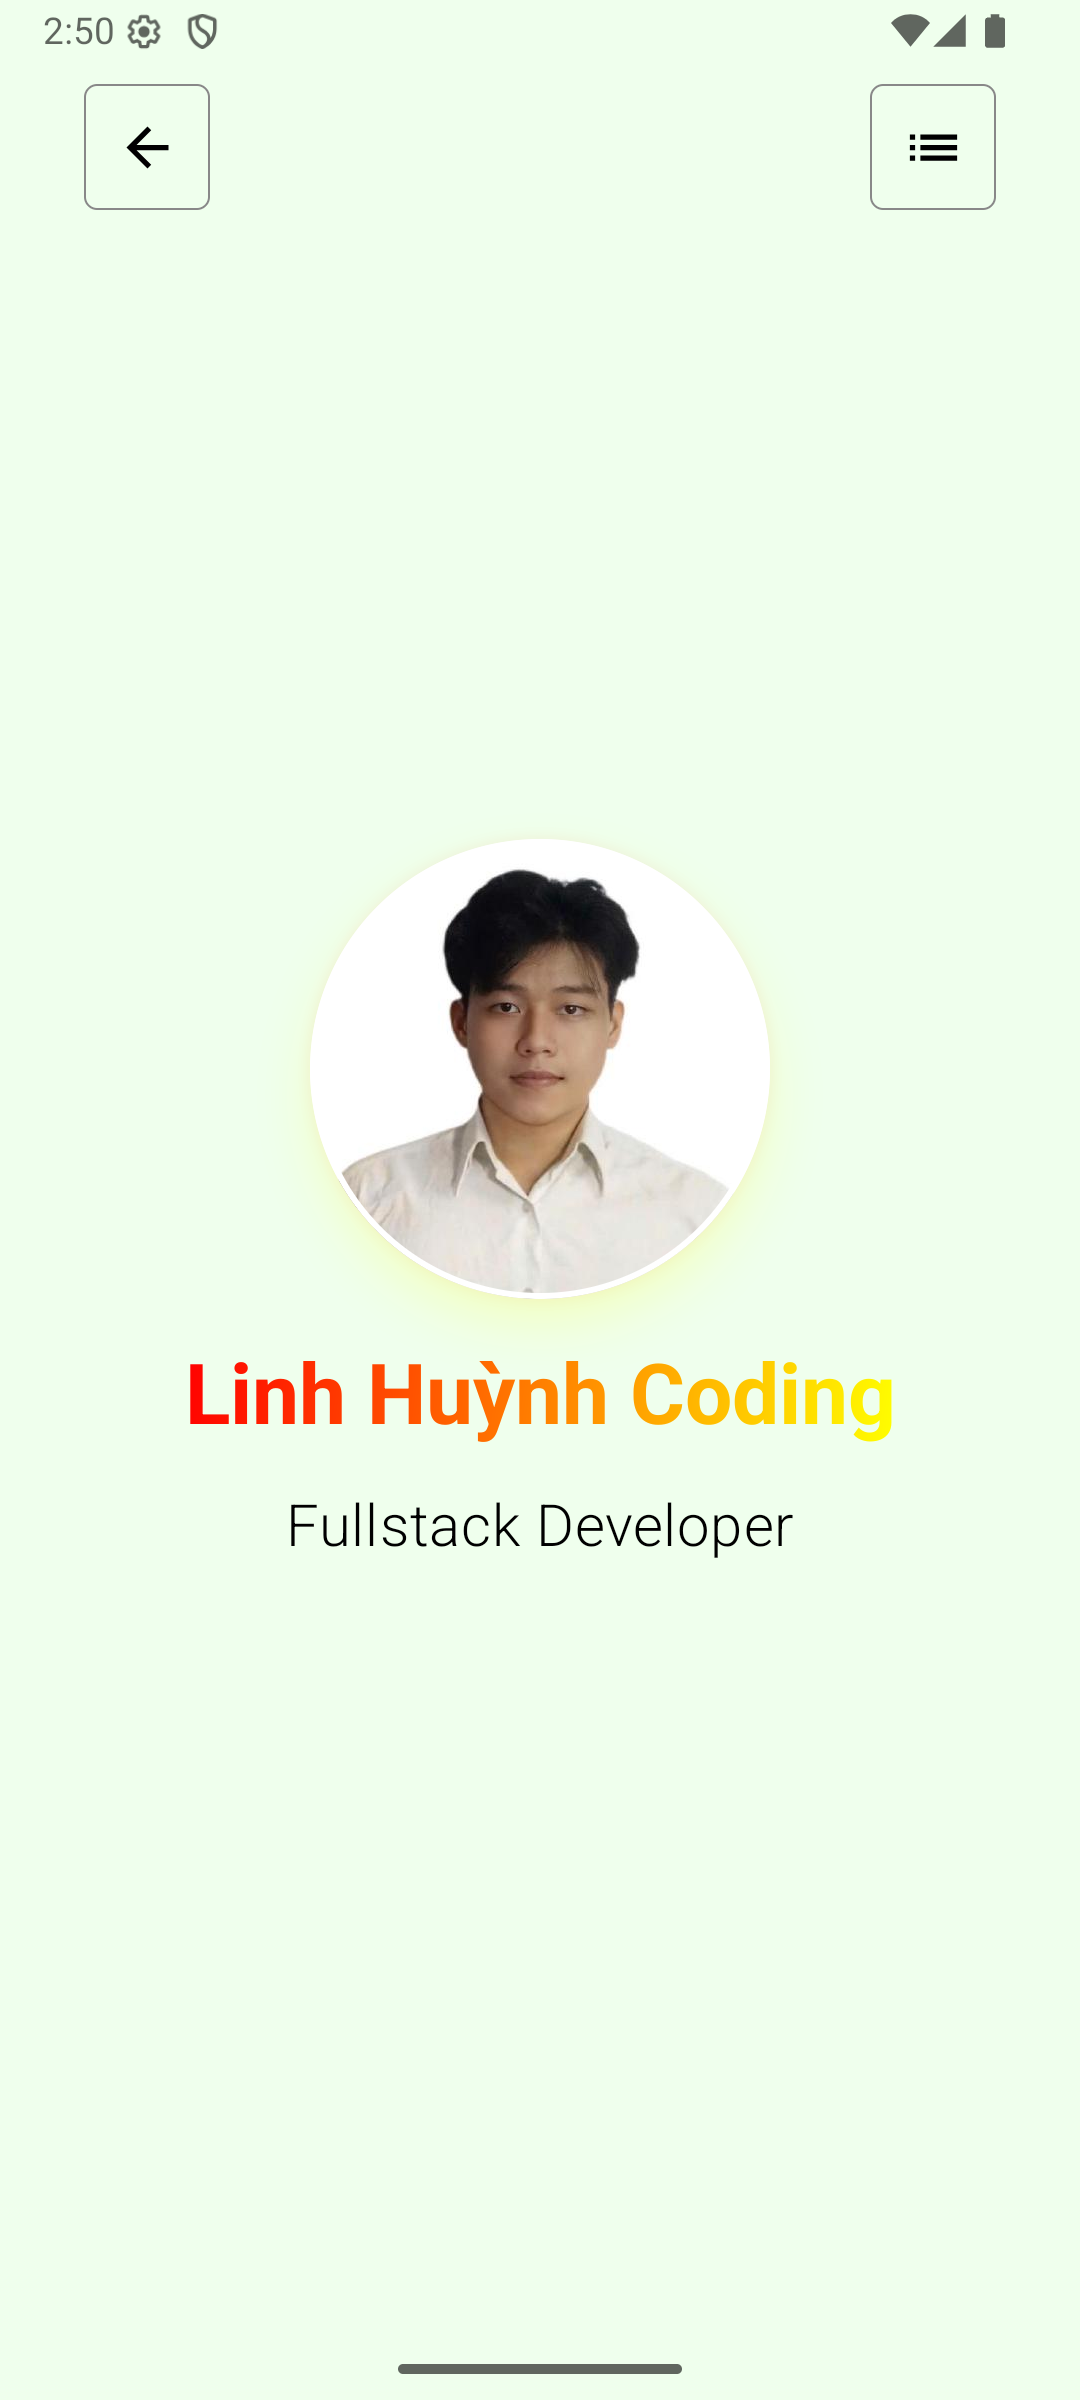
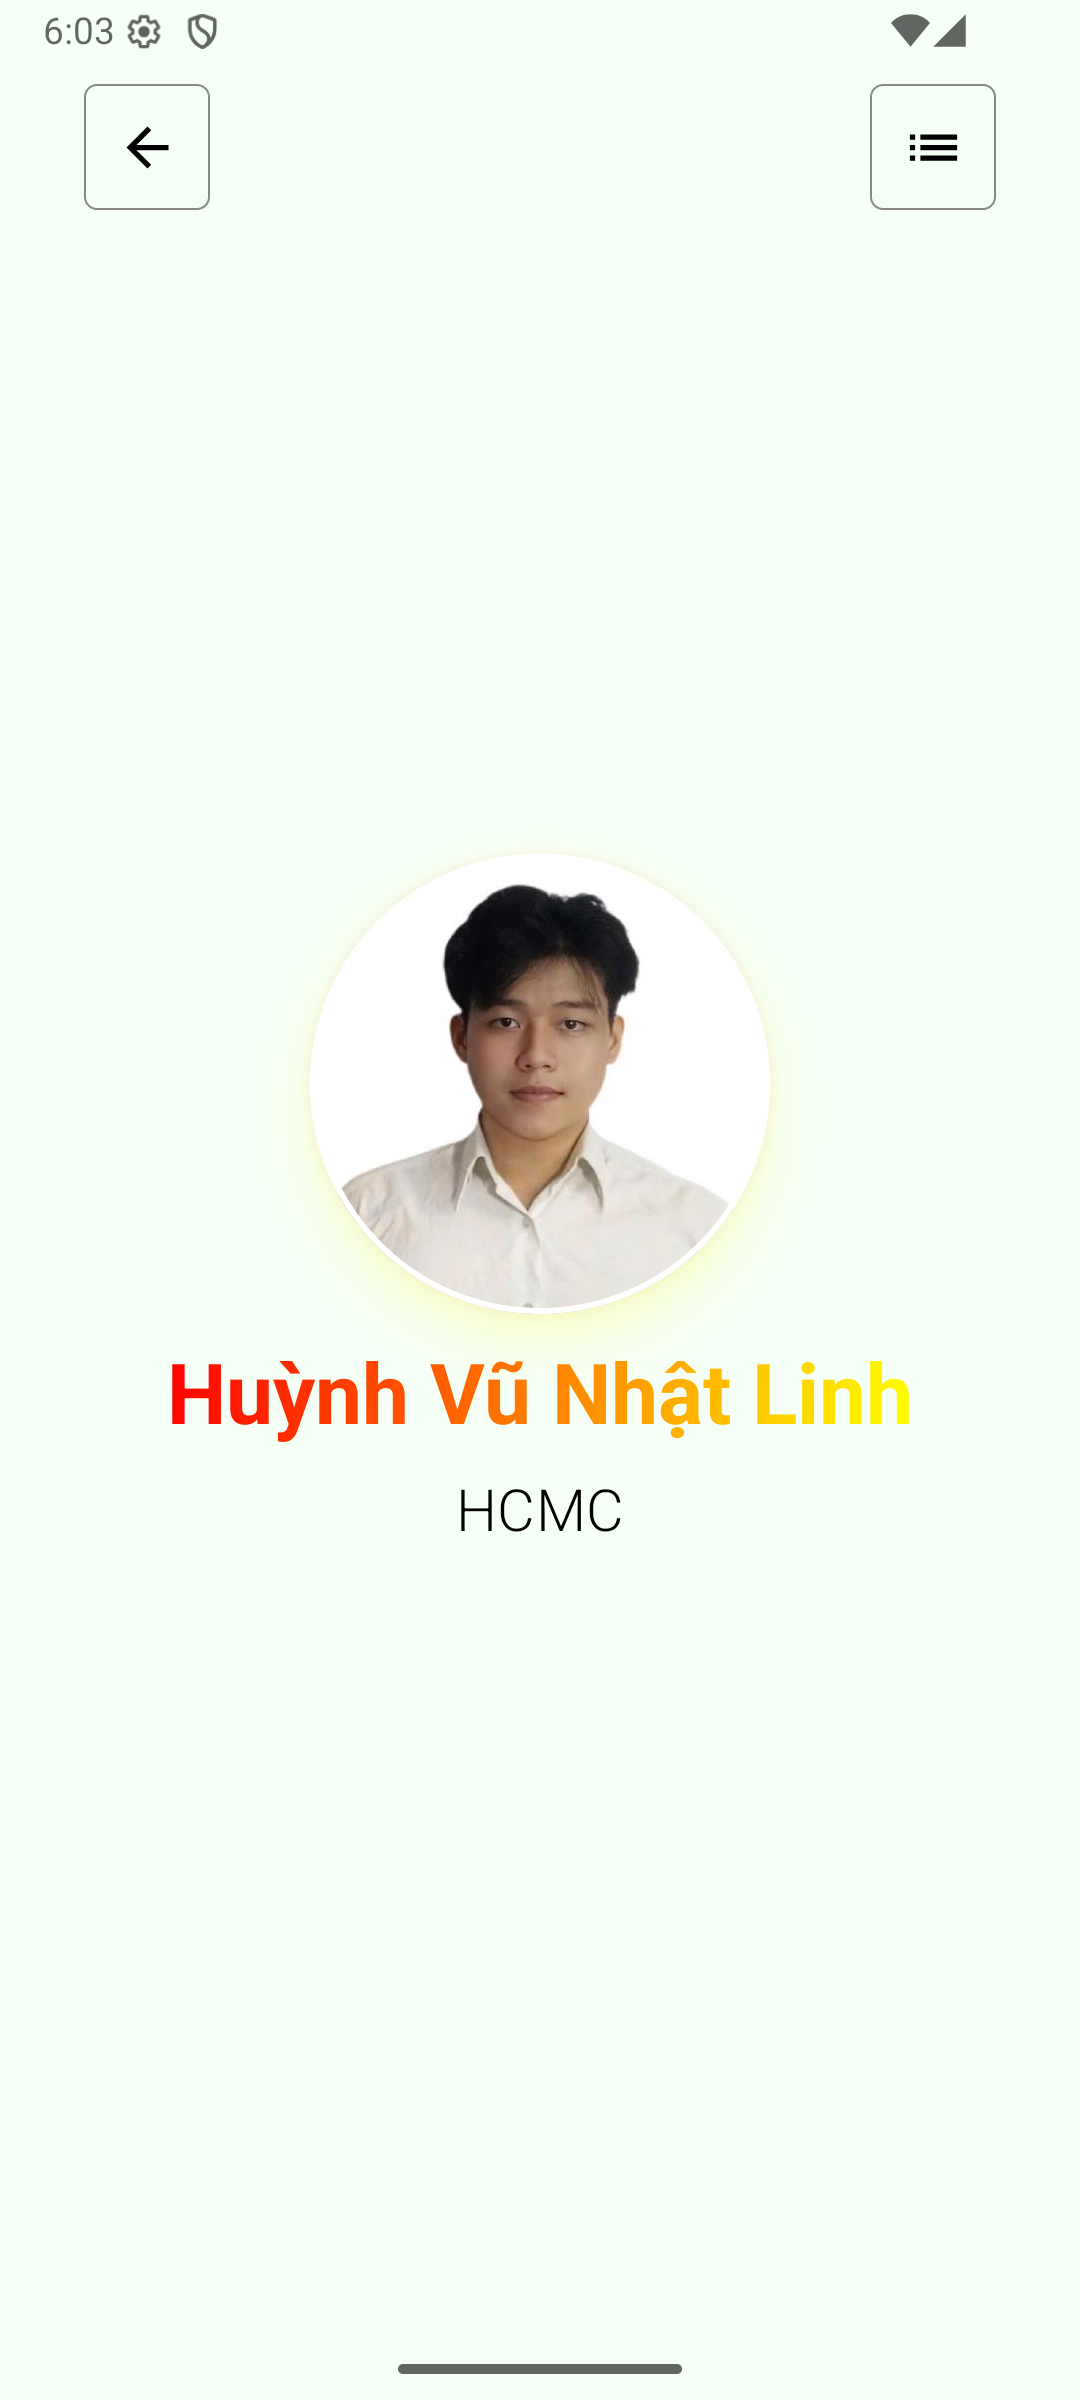
refactor

Changed region(s): [[0.1528, 0.3438, 0.8556, 0.6562], [0.0306, 0.0, 0.0917, 0.0312], [0.9167, 0.0, 0.9472, 0.0312]]

diff --git a/app/src/main/java/com/example/myapplication/MainActivity.kt b/app/src/main/java/com/example/myapplication/MainActivity.kt
@@ -80,7 +80,7 @@ fun MyApp() {
 
     Scaffold(
         modifier = Modifier.fillMaxSize(),
-        containerColor = Color(0xFFEFFFED),
+        containerColor = Color(0xFFF6FFF5),
         topBar = {
 
             Row(
@@ -132,13 +132,13 @@ fun Profile(modifier: Modifier) {
         modifier = Modifier.fillMaxSize(),
         horizontalAlignment = Alignment.CenterHorizontally,
         verticalArrangement = Arrangement.spacedBy(
-            18.dp,
+            12.dp,
             alignment = Alignment.CenterVertically
         ),
     ) {
         Avatar(modifier = Modifier)
         Text(
-            text = "Linh Huỳnh Coding",
+            text = "Huỳnh Vũ Nhật Linh",
             fontSize = 32.sp,
             fontWeight = FontWeight.Bold,
             style = TextStyle(
@@ -148,7 +148,7 @@ fun Profile(modifier: Modifier) {
             )
         )
         Text(
-            text = "Fullstack Developer",
+            text = "HCMC",
             fontSize = 22.sp,
             fontWeight = FontWeight.Light
         )
